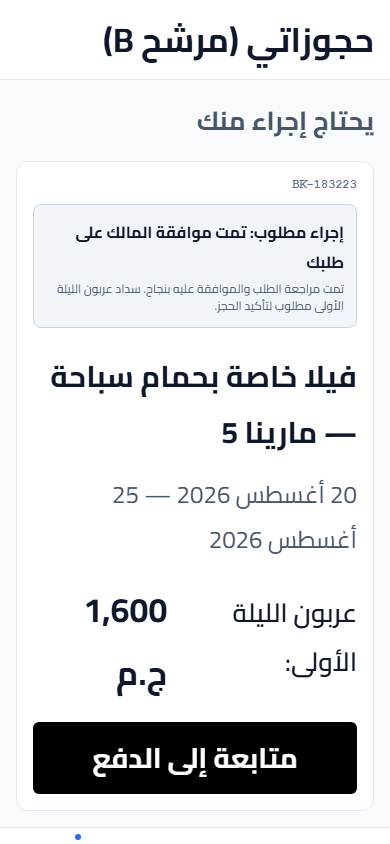
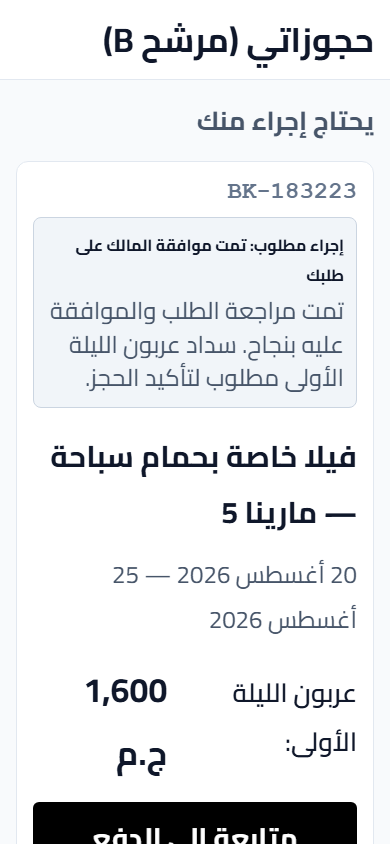
fix(design): correct Phase 4G publication integrity

Changed region(s): [[0.0615, 0.2156, 0.9231, 1.0], [0.1231, 0.5237, 0.3692, 0.6161], [0.2154, 0.6469, 0.4308, 0.7393]]

diff --git a/DESIGN_SYSTEM/PILOTS/content-state-pilot-01/index.html b/DESIGN_SYSTEM/PILOTS/content-state-pilot-01/index.html
@@ -100,7 +100,6 @@
 
     body.scale-200 .table-cell {
       padding: 8px 6px !important;
-      font-size: calc(11px * var(--scale-factor)) !important;
     }
 
     body.scale-200 .toast-box {
@@ -1033,7 +1032,7 @@
             <div style="flex:1;">
               <strong>تعذر تحديث النتائج.</strong> قد تكون الأسعار والتوافر قد تغيرت. يتم عرض آخر بيانات محفوظة.
             </div>
-            <button class="btn-secondary" style="min-height:32px; padding:4px 10px; font-size:12px;">تحديث</button>
+            <button class="btn-secondary" style="min-height:32px; padding:4px 10px; font-size:calc(12px * var(--scale-factor));">تحديث</button>
           </div>
 
           <!-- Safe Last-Known Cached Card -->
@@ -1148,7 +1147,7 @@
           <div class="struct-card">
             <div style="display:flex; justify-content:space-between; align-items:center;">
               <span class="status-badge neutral-process">بانتظار موافقة المالك</span>
-              <span style="font-size:12px; font-weight:700; color:var(--text-muted); font-family:monospace;" dir="ltr">BK-908747</span>
+              <span style="font-size:calc(12px * var(--scale-factor)); font-weight:700; color:var(--text-muted); font-family:monospace;" dir="ltr">BK-908747</span>
             </div>
 
             <div style="font-size:calc(15px * var(--scale-factor)); font-weight:700;">شاليه فاخر بإطلالة مباشرة على اللاجون</div>
@@ -1206,11 +1205,11 @@
             </div>
             <div class="struct-card">
               <div style="display:flex; justify-content:space-between; align-items:center;">
-                <span style="font-size:12px; font-weight:700; color:var(--text-muted); font-family:monospace;" dir="ltr">BK-183223</span>
+                <span style="font-size:calc(12px * var(--scale-factor)); font-weight:700; color:var(--text-muted); font-family:monospace;" dir="ltr">BK-183223</span>
               </div>
               <div class="candidate-box-banner">
                 <strong style="color:#0F172A; display:block; margin-bottom:4px;">إجراء مطلوب: تمت موافقة المالك على طلبك</strong>
-                <p style="font-size:12px; color:#475569; line-height:1.4;">
+                <p style="font-size:calc(12px * var(--scale-factor)); color:#475569; line-height:1.4;">
                   تمت مراجعة الطلب والموافقة عليه بنجاح. سداد عربون الليلة الأولى مطلوب لتأكيد الحجز.
                 </p>
               </div>
@@ -1242,7 +1241,7 @@
           <div class="struct-card" style="border-color:#0F172A; border-width:1.5px;">
             <div style="display:flex; justify-content:space-between; align-items:center; flex-wrap:wrap; gap:6px;">
               <span class="status-badge action-required">تمت الموافقة — سداد العربون مطلوب</span>
-              <span style="font-size:12px; font-weight:700; color:var(--text-muted); font-family:monospace;" dir="ltr">BK-183223</span>
+              <span style="font-size:calc(12px * var(--scale-factor)); font-weight:700; color:var(--text-muted); font-family:monospace;" dir="ltr">BK-183223</span>
             </div>
 
             <div style="font-size:calc(15px * var(--scale-factor)); font-weight:700;">فيلا خاصة بحمام سباحة — مارينا 5</div>
@@ -1276,7 +1275,7 @@
           <div class="struct-card">
             <div style="display:flex; justify-content:space-between; align-items:center;">
               <span class="status-badge success">حجز مؤكد</span>
-              <span style="font-size:12px; font-weight:700; color:var(--text-muted); font-family:monospace;" dir="ltr">BK-442190</span>
+              <span style="font-size:calc(12px * var(--scale-factor)); font-weight:700; color:var(--text-muted); font-family:monospace;" dir="ltr">BK-442190</span>
             </div>
 
             <div style="font-size:calc(15px * var(--scale-factor)); font-weight:700;">شقة مصيفية فاخرة — سيدي حنيش</div>
@@ -1284,7 +1283,7 @@
 
             <div style="display:flex; justify-content:space-between; align-items:center; border-top:1px solid var(--border-divider); padding-top:10px;">
               <span style="font-size:calc(12px * var(--scale-factor)); color:var(--status-success); font-weight:700;">تم سداد العربون وتثبيت الموعد</span>
-              <button class="btn-secondary" style="min-height:36px; padding:4px 12px; font-size:12px;">تفاصيل الإقامة</button>
+              <button class="btn-secondary" style="min-height:36px; padding:4px 12px; font-size:calc(12px * var(--scale-factor));">تفاصيل الإقامة</button>
             </div>
           </div>
         </div>
@@ -1452,7 +1451,7 @@
           <div class="struct-card">
             <div style="display:flex; justify-content:space-between; align-items:center;">
               <span class="status-badge action-required">طلب جديد</span>
-              <span style="font-size:12px; font-weight:700;" dir="ltr">BK-771902</span>
+              <span style="font-size:calc(12px * var(--scale-factor)); font-weight:700;" dir="ltr">BK-771902</span>
             </div>
             <div style="font-size:calc(14px * var(--scale-factor)); font-weight:700;">طلب حجز شاليه سيدي عبد الرحمن</div>
             <div class="action-row" style="display:flex; gap:8px; margin-top:4px;">
@@ -1470,7 +1469,7 @@
             <div style="font-size:calc(12px * var(--scale-factor)); color:var(--text-secondary);">
               لم نتمكن من جلب الأرصدة المالية المؤكدة من الخادم. لم تُعرض أي أرقام بديلة.
             </div>
-            <button class="btn-secondary" style="min-height:36px; padding:4px 12px; font-size:12px; width:fit-content;">
+            <button class="btn-secondary" style="min-height:36px; padding:4px 12px; font-size:calc(12px * var(--scale-factor)); width:fit-content;">
               إعادة محاولة جلب المحفظة
             </button>
           </div>
@@ -1487,7 +1486,7 @@
           <div class="struct-card">
             <div style="display:flex; justify-content:space-between; align-items:center;">
               <span class="status-badge action-required">يحتاج قرارك</span>
-              <span style="font-size:12px; font-weight:700; color:var(--text-muted);" dir="ltr">BK-882310</span>
+              <span style="font-size:calc(12px * var(--scale-factor)); font-weight:700; color:var(--text-muted);" dir="ltr">BK-882310</span>
             </div>
 
             <div style="font-size:calc(15px * var(--scale-factor)); font-weight:700;">أحمد محمد — 4 ضيوف</div>
@@ -1555,7 +1554,7 @@
             <div style="display:flex; justify-content:space-between; align-items:center;">
               <!-- Normal process: NOT warning/amber -->
               <span class="status-badge neutral-process">قيد المراجعة</span>
-              <span style="font-size:12px; color:var(--text-muted);">مقدمة منذ يومين</span>
+              <span style="font-size:calc(12px * var(--scale-factor)); color:var(--text-muted);">مقدمة منذ يومين</span>
             </div>
 
             <div style="font-size:calc(15px * var(--scale-factor)); font-weight:700;">شاليه فاخر قرية مراسي</div>
@@ -1739,7 +1738,7 @@
                 <td class="table-cell">محمود السيد</td>
                 <td class="table-cell">04 أكتوبر 2026</td>
                 <td class="table-cell"><span class="status-badge neutral-process">قيد المراجعة</span></td>
-                <td class="table-cell"><button class="btn-primary" style="min-height:32px; padding:4px 10px; font-size:12px;">فتح للمعاينة والقرار</button></td>
+                <td class="table-cell"><button class="btn-primary" style="min-height:32px; padding:4px 10px; font-size:calc(12px * var(--scale-factor));">فتح للمعاينة والقرار</button></td>
               </tr>
               <tr>
                 <td class="table-cell" style="font-family:monospace;" dir="ltr">PR-331084</td>
@@ -1747,7 +1746,7 @@
                 <td class="table-cell">سارة عادل</td>
                 <td class="table-cell">05 أكتوبر 2026</td>
                 <td class="table-cell"><span class="status-badge neutral-process">قيد المراجعة</span></td>
-                <td class="table-cell"><button class="btn-primary" style="min-height:32px; padding:4px 10px; font-size:12px;">فتح للمعاينة والقرار</button></td>
+                <td class="table-cell"><button class="btn-primary" style="min-height:32px; padding:4px 10px; font-size:calc(12px * var(--scale-factor));">فتح للمعاينة والقرار</button></td>
               </tr>
             </tbody>
           </table>

diff --git a/DESIGN_SYSTEM/PILOTS/content-state-pilot-01/EVIDENCE_MANIFEST.md b/DESIGN_SYSTEM/PILOTS/content-state-pilot-01/EVIDENCE_MANIFEST.md
@@ -24,14 +24,14 @@
 | **Unauthorized Evidence** | `customer_bookings_guest_390.png` | 16,801 | `58d61a3352157e1c522a831b0a27520f45619ea9` | Clean guest state with login redirection |
 | | `customer_bookings_session_expired_390.png` | 16,583 | `2b13f394f2170fe64c11fbe51685a99ec62f3b7d` | Session expired notice (neutral/blue card; no amber box; renamed from expired) |
 | | `admin_session_expired_1440.png` | 20,800 | `1e90aaf24a051ea21daf277ae47c909e16c67d6e` | Admin session gate; fails closed |
-| **Customer Lifecycle** | `customer_explore_loading_390.png` | 12,978 | `474c34e68aa960f994bdce6be20c45ffbb984dbb` | Structure-preserving 1.4:1 skeleton feed |
+| **Customer Lifecycle** | `customer_explore_loading_390.png` | 12,476 | `dd328b6bf6aae23c60c15c741ff462ae9055fdac` | Structure-preserving 1.4:1 skeleton feed |
 | | `customer_favorites_empty_390.png` | 16,172 | `ddc069274c8c53c1362865c08b916449b3133b52` | True empty favorites with explore redirection |
 | | `customer_bookings_pending_390.png`| 19,838 | `cfec8b632b90eed5ec21a376c9183f6816e5790c` | Normal process: PENDING_OWNER_APPROVAL (soft neutral/blue; zero response SLA) |
 | | `customer_bookings_approved_390.png`| 21,286 | `f5ee005847b83f366f327ebc76013bfa09f643a3` | Action required: APPROVED_PENDING_PAYMENT with deposit CTA (zero deadline) |
 | | `customer_bookings_confirmed_390.png`| 18,290 | `24ebcd577e4be56cdfce280ce335cc0e6840e590` | Stable confirmed booking state |
 | | `customer_booking_submitting_390.png`| 13,531 | `2877fb10b4114479b801803fbd35024153146335` | Submitting in-flight; duplicate submission prevented |
 | | `customer_booking_success_390.png` | 18,652 | `77e0c9dc97238b5445f112eea9fc6f679b7b1ac6` | Screen 11 request sent confirmation with reference ID |
-| **Owner Operations** | `owner_home_loading_390.png` | 8,747 | `6da6afff62f5250df9cd8341e36daf5e03c5dc9d` | Dashboard structure skeleton |
+| **Owner Operations** | `owner_home_loading_390.png` | 8,750 | `ff1077bc822fdbaffe5057e7ed5c1ac76c5d0ad7` | Dashboard structure skeleton |
 | | `owner_bookings_queue_390.png` | 17,433 | `55e2dd2935b55df736d062fdc9acc1d4081ee558` | Queue decision item with Approve / Reject CTAs |
 | | `owner_bookings_submitting_390.png` | 10,311 | `beeb0b435e45fa199710c3e705688dd57f8ac6ed` | Submitting decision with disabled control |
 | | `owner_properties_empty_390.png` | 16,760 | `4dae399d78ee5b433f0508ad6ba9a400e9021ae5` | First-run empty properties with add unit CTA |
@@ -45,26 +45,47 @@
 | **Candidate Comparators (100% Scale)** | `candidate_a_customer_bookings_390.png` | 25,034 | `0a88faf457eaa4653a8329eb0420e629b871b303` | Candidate A: Badge-centric chip soup (same truthful data, no invented deadline) |
 | | `candidate_b_customer_bookings_390.png` | 26,064 | `d6c6b8bebb0745a89bd4ee73851e7b724421ad55` | Candidate B: Message-centric boxed alert (neutral slate box, same truthful data) |
 | | `candidate_c_customer_bookings_390.png` | 21,286 | `f5ee005847b83f366f327ebc76013bfa09f643a3` | Candidate C: Role-aware layered system baseline |
-| **Candidate Comparators (True 200% Scale)** | `candidate_a_customer_bookings_200.png` | 42,443 | `6ab3ffa82f32328c7e0b6281dd77f3663c562018` | Candidate A @ 200%: Badges wrap into 3 vertical rows |
-| | `candidate_b_customer_bookings_200.png` | 39,080 | `e263062504783767fda6909245a331cc5d65af01` | Candidate B @ 200%: Heavy box expands vertically |
-| | `candidate_c_customer_bookings_200.png` | 37,694 | `a9bacad6fd46d4f3b9efcce3c29b0c4ab42c7e9c` | Candidate C @ 200%: Clean 2-line badge reflow, subtext and CTA fully visible |
+| **Candidate Comparators (200% Controlled Scale)** | `candidate_a_customer_bookings_200.png` | 42,443 | `6ab3ffa82f32328c7e0b6281dd77f3663c562018` | Candidate A @ 200%: Badges wrap into 3 vertical rows |
+| | `candidate_b_customer_bookings_200.png` | 43,984 | `76669ddba0886ccafcd33d451f8e87954cc11db1` | Candidate B @ 200%: Scaled text banner causes vertical bloat |
+| | `candidate_c_customer_bookings_200.png` | 38,046 | `64c21d25c1e254d2c49eb9ec3190323a3576fe8a` | Candidate C @ 200%: Scaled badge, subtext, ID, and CTA fully visible |
 | **Stress & Accessibility** | `stress_true_200_customer_error_390.png` | 28,995 | `52bffcc92792f7760ebeeb41204e37d2d112abad` | 200% scale reflow of customer error view |
 | | `stress_true_200_customer_conflict_390.png` | 39,963 | `1c07c9616a2b91a7ba3cb573c345eb86de031cb3` | 200% scale reflow of price conflict alert |
 | | `stress_true_200_owner_wallet_390.png` | 39,186 | `80e764b3445398d7d1e4664e04f3bca6386c8193` | 200% scale reflow of owner wallet balances |
-| | `stress_true_200_admin_queue_1440.png` | 41,160 | `a695d1ba94d673d0d08e5792e1252930efbe3053` | 200% scale reflow of admin data table |
-| **Responsive Sets** | `customer_explore_360.png` | 11,771 | `0fbf9cd5b23d0a0f1cdf5a8adbd8d635644c061b` | Compact mobile explore view (360px) |
-| | `customer_explore_390.png` | 12,978 | `474c34e68aa960f994bdce6be20c45ffbb984dbb` | Standard mobile explore view (390px) |
-| | `customer_explore_430.png` | 13,608 | `bb55e1b3bd2a41867cf73a9de064396cf48eed1f` | Large mobile explore view (430px) |
+| | `stress_true_200_admin_queue_1440.png` | 45,121 | `321658a10a54008400a6b0511be3364ea345cdde` | 200% scale reflow of admin data table with 26px cells & 24px buttons |
+| **Responsive Sets** | `customer_explore_360.png` | 12,421 | `1e38d85f94aa05be0a65fa84fd06e4b321c6ccc7` | Compact mobile explore view (360px) |
+| | `customer_explore_390.png` | 12,382 | `f705c9660a8891e89541e220658f661b03877346` | Standard mobile explore view (390px) |
+| | `customer_explore_430.png` | 13,609 | `2cb0e640627b3b835a35a7c9249eae38223e9ff8` | Large mobile explore view (430px) |
 | | `owner_home_360.png` | 17,830 | `3606c9669f8eff74b5b88749c64ac119462158f5` | Compact mobile owner home (360px) |
 | | `owner_home_390.png` | 18,145 | `38a6e893b2d9e35d6729378b1017b6ee0674cd9c` | Standard mobile owner home (390px) |
 | | `owner_home_430.png` | 18,425 | `06ff14b5bae8d1698151697371dbb9241b9c483d` | Large mobile owner home (430px) |
 
 ---
 
-## 2. Evidence Verification Summary
+## 2. Evidence Verification Summary & Definitions
 
-1. **Non-Zero Size Guarantee:** All 46 files exist on disk with verified sizes between 8,747 bytes and 42,443 bytes.
-2. **Distinct Comparison Candidates:** `candidate_a` (25,034 B), `candidate_b` (26,064 B), and `candidate_c` (21,286 B) at 100% scale, and `candidate_a_200` (42,443 B), `candidate_b_200` (39,080 B), and `candidate_c_200` (37,694 B) at 200% scale have distinct geometries, byte sizes, and git blob SHAs reflecting their architectural differences.
-3. **Geometric Integrity:** Every mobile screenshot conforms to its target aspect ratio (360×800, 390×844, 430×932) with zero right-edge clipping or horizontal overflow.
-4. **Admin Dual Desktop Viewports:** Admin queue verified at both 1280px (28,227 B) and 1440px (28,925 B).
-5. **No Amber Box Containers:** Verified in rendered pixels: zero amber fills or borders used for stale data or normal process states.
+1. **Controlled Web 200% Text Scale Definition:**
+   - **`TRUE IN THIS CONTEXT`** = All user-visible Web pilot typography participating in the 2.0 controlled typography scale via `calc(BASE_PX * var(--scale-factor))` with zero fixed font-size bypasses.
+   - **`NOT NATIVE OS ACCESSIBILITY ACCEPTANCE`**: This evidence validates the Web pilot layout and reflow behavior. Native mobile accessibility (iOS Dynamic Type, Android font scale, Flutter semantics, VoiceOver/TalkBack, and screen reader announcements) is strictly **`DEFERRED_TO_4I`**.
+
+2. **Programmatic Computed Font Size Verification:**
+   Every representative visible textual element was inspected in headless Chrome across normal (1.0x) and scale-200 (2.0x) modes:
+
+| Scenario | Element / Role | Selector | Computed 100% | Computed 200% | Ratio | Verification Status |
+| :--- | :--- | :--- | :--- | :--- | :--- | :--- |
+| **Customer Bookings (Cand. C)** | Customer main text (title) | `.struct-card > div:nth-child(2)` | `15px` | `30px` | `2.00x` | `PASS` |
+| **Customer Bookings (Cand. C)** | Customer supporting text | `.struct-card > div:nth-child(3)` | `12px` | `24px` | `2.00x` | `PASS` |
+| **Customer Bookings (Cand. C)** | Customer button label | `.card-action-bar button` | `14px` | `28px` | `2.00x` | `PASS` |
+| **Customer Bookings (Cand. C)** | Customer reference ID | `.struct-card span[dir="ltr"]` | `12px` | `24px` | `2.00x` | `PASS` |
+| **Customer Bookings (Cand. B)** | Candidate B explanatory text | `.candidate-box-banner p` | `12px` | `24px` | `2.00x` | `PASS` |
+| **Owner Home Partial** | Owner supporting text | `.struct-card:nth-child(2) > div:nth-child(2)` | `12px` | `24px` | `2.00x` | `PASS` |
+| **Owner Home Partial** | Owner button label (retry) | `.struct-card:nth-child(2) button` | `12px` | `24px` | `2.00x` | `PASS` |
+| **Admin Queue Loaded** | Admin table cell text | `.table-cell strong` | `13px` | `26px` | `2.00x` | `PASS` |
+| **Admin Queue Loaded** | Admin action button | `.table-cell button` | `12px` | `24px` | `2.00x` | `PASS` |
+
+   **Result:** 9/9 representative visible text elements scale at exactly `2.00x`. Zero fixed font-size bypasses detected in product surfaces.
+
+3. **Geometric & Visual QA Invariants:**
+   - **Zero Horizontal Clipping:** No horizontal scroll, broken cards, or clipped CTAs across viewports (360px, 390px, 430px, 1280px, 1440px).
+   - **Vertical Expansion:** Cards and containers expand vertically to accommodate scaled Arabic typography.
+   - **Bidi Integrity:** Bidirectional isolation verified: technical IDs (`BK-183223`), phone numbers, and currency values remain correctly ordered.
+   - **No Amber Box Containers:** Verified in rendered pixels: zero amber fills or borders used for stale data or normal process states.

diff --git a/DESIGN_SYSTEM/PILOTS/content-state-pilot-01/STATUS_TRUTH_MATRIX.md b/DESIGN_SYSTEM/PILOTS/content-state-pilot-01/STATUS_TRUTH_MATRIX.md
@@ -20,28 +20,41 @@
 
 ## 2. Comprehensive Status Presentation Matrix
 
-### 2.1 Property Lifecycle Statuses
+### 2.1 Property Statuses
+
+#### 2.1A Property Lifecycle Statuses (`properties.status` [SERVER_ENUM])
 
 | Canonical Enum | Customer Presentation | Owner Presentation | Admin Presentation | Visual Alarm Level | Preferred Component | Invariant / Boundary |
 | :--- | :--- | :--- | :--- | :--- | :--- | :--- |
 | **`DRAFT`** | *Hidden (Never exposed)* | **مسودة**<br>*"أكمل بيانات الوحدة لإرسالها للمراجعة"* | **مسودة**<br>*"غير مقدمة للمراجعة"* | `MUTED` | Subtle Neutral Badge | Invisible to renters until published and verified. |
-| **`PENDING_REVIEW`** | *Hidden (Never exposed)* | **قيد المراجعة**<br>*"الوحدة قيد تدقيق فريق كونفرم"* | **بانتظار المراجعة**<br>*"تتطلب قرار اعتماد أو رفض"* | `NEUTRAL_PROCESS` (Soft Blue / Neutral) | Info Badge (No amber box) | In Admin review queue. Owner cannot directly publish, reject, or self-resubmit. |
+| **`PENDING_REVIEW`** | *Hidden (Never exposed)* | **قيد المراجعة**<br>*"الوحدة قيد تدقيق فريق كونفرم"* | **بانتظار المراجعة**<br>*"تتطلب قرار اعتماد أو رفض"* | `NEUTRAL_PROCESS` (Soft Blue / Neutral) | Info Badge (No amber box) | In Admin review queue. Owner cannot directly publish, pause, or self-resubmit. |
 | **`PUBLISHED`** | **متاحة للحجز**<br>*(Shown implicitly via card presence)* | **منشورة ومتاحة**<br>*"تظهر للضيوف ويمكن استقبال طلبات عليها"* | **معتمدة ومنشورة**<br>*"متاحة في نتائج البحث العامة"* | `SUCCESS` | Muted Success Badge | Verified + Published required for public listing visibility. |
-| **`REJECTED`** | *Hidden (Never exposed)* | **بحاجة إلى تعديل**<br>*"راجع ملاحظات المراجعة وعدّل الوحدة"* | **مرفوضة**<br>*"تم الرفض مع تدوين السبب"* | `DANGER` (Destructive/Rose) | Danger Badge + Inline Reason | Accompanied by plain Arabic rejection feedback. |
 | **`PAUSED`** | *Hidden from active search* | **موقوفة مؤقتاً**<br>*"الوحدة مخفية عن العرض العام"* | **موقوفة**<br>*"موقوفة من جانب المالك أو الإدارة"* | `MUTED` | Neutral Outline Badge | **SUPPORTED TRUTH:** Unit is paused/hidden from public listing. Booking request consequences remain governed by Product/availability authority. |
+| **`ARCHIVED`** | *Hidden (Never exposed)* | **مؤرشفة**<br>*"الوحدة في الأرشيف"* | **مؤرشفة**<br>*"وحدة خارج التداول"* | `MUTED` | Neutral Badge | Fully archived; excluded from active operations. |
+
+#### 2.1B Property Verification Statuses (`properties.verification_status` [VERIFICATION_STATE / SERVER_ENUM])
+
+| Canonical Enum | Customer Presentation | Owner Presentation | Admin Presentation | Visual Alarm Level | Preferred Component | Invariant / Boundary |
+| :--- | :--- | :--- | :--- | :--- | :--- | :--- |
+| **`UNVERIFIED`** | *Hidden* | **غير موثقة**<br>*"تتطلب إرفاق مستندات الملكية"* | **غير موثقة** | `MUTED` | Neutral Badge | Default initial state. |
+| **`PENDING_VERIFICATION`** | *Hidden* | **المستندات قيد الفحص**<br>*"يجري فحص مستندات الملكية"* | **فحص مستندات الملكية معلق** | `NEUTRAL_PROCESS` | Info Badge | In Admin verification queue. |
+| **`VERIFIED`** | *Implicit in listing* | **موثقة**<br>*"تم تدقيق مستندات الملكية"* | **مستندات معتمدة** | `SUCCESS` | Muted Success Badge | Authorizes publication. |
+| **`REJECTED`** | *Hidden* | **بحاجة إلى تعديل**<br>*"راجع ملاحظات المراجعة وعدّل المستندات"* | **مرفوضة**<br>*"تم رفض المستندات مع تدوين السبب"* | `DANGER` | Danger Badge + Reason | **VERIFICATION TRUTH:** Sets `verification_status = 'REJECTED'` and lifecycle returns to `DRAFT`. `REJECTED` is not a `properties.status` enum. |
 
 ---
 
-### 2.2 Booking Lifecycle Statuses
+### 2.2 Booking Lifecycle Statuses (`bookings.status` [SERVER_ENUM])
 
 | Canonical Enum | Customer Presentation | Owner Presentation | Admin Presentation | Visual Alarm Level | Preferred Component | Invariant / Boundary |
 | :--- | :--- | :--- | :--- | :--- | :--- | :--- |
 | **`PENDING_OWNER_APPROVAL`** | **طلبك وصل للمالك**<br>*"بانتظار مراجعة وقرار المالك"* | **طلب حجز جديد**<br>*"يحتاج قرارك (قبول أو رفض)"* | **بانتظار موافقة المالك**<br>*"طلب معلق لدى المالك"* | `NEUTRAL_PROCESS` (Soft Blue / Neutral) | Info Badge / Inline Text | **REQUEST-BASED CANON:** Does NOT block dates. No payment collected. No Owner response SLA exists or is stated. Never an alarm or failure. |
 | **`APPROVED_PENDING_PAYMENT`** | **تمت الموافقة — سداد العربون مطلوب**<br>*"سدّد العربون لتأكيد الحجز."* | **تمت الموافقة من جانبك**<br>*"بانتظار سداد الضيف للعربون لتأكيد الحجز"* | **موافقة معلقة بالسداد**<br>*"بانتظار إتمام الدفع"* | `ACTION_REQUIRED` (Restrained Accent / Slate) | High-Contrast Badge + Action CTA | **BLOCKS DATES:** Deposit payment is the next governed step. Bottom nav attention dot active. **NO INVENTED PAYMENT DEADLINE.** |
 | **`CONFIRMED`** | **حجز مؤكد**<br>*"تم سداد العربون وتأكيد الإقامة بنجاح"* | **حجز مؤكد**<br>*"تم سداد العربون وتثبيت الموعد بالتقويم"* | **حجز مؤكد**<br>*"عربون مسدد والعملية مكتملة"* | `SUCCESS` | Muted Green Badge | **BLOCKS DATES:** Deposit finalized. Full booking confirmation established. |
-| **`REJECTED`** | **لم يتم قبول الطلب**<br>*"اعتذر المالك عن قبول هذا الطلب"* | **تم رفض الطلب**<br>*"تم رفض الطلب من جانبك"* | **مرفوض من المالك**<br>*"تم الرفض بواسطة المالك"* | `MUTED_DANGER` | Neutral/Destructive Badge | Strictly distinct from Guest Cancellation. |
-| **`CANCELLED`** | **تم الإلغاء**<br>*"ملغي من جانبك"* (or *"بسبب المالك"*) | **طلب ملغي**<br>*"أُلغي من قبل الضيف أو النظام"* | **ملغي**<br>*"مسجل كملغي مع بيان الطرف"* | `MUTED` | Neutral Gray Badge | **NEVER label cancellation as "مرفوض"**. Identifies causal party truthfully. |
+| **`REJECTED`** | **لم يتم قبول الطلب**<br>*"اعتذر المالك عن قبول هذا الطلب"* | **تم رفض الطلب**<br>*"تم رفض الطلب من جانبك"* | **مرفوض من المالك**<br>*"تم الرفض بواسطة المالك"* | `MUTED_DANGER` | Neutral/Destructive Badge | Strictly distinct from cancellation. Pre-payment decline. |
 | **`EXPIRED`** | **انتهت صلاحية الطلب** | **انتهت صلاحية الطلب** | **طلب منتهي الصلاحية** | `MUTED` | Neutral Gray Badge | **CAUSE-NEUTRAL TRUTH:** Request is no longer active. Expiry cause is not universally inferred (no assumed Owner delay or payment SLA). Dates are non-blocked. |
+| **`CANCELLED_BY_OWNER`** | **ألغى المالك الحجز**<br>*"تم إلغاء الحجز من جانب المالك"* | **تم الإلغاء من جانبك**<br>*"ألغيت هذا الحجز"* | **ملغى بواسطة المالك** | `MUTED` | Neutral Gray Badge | Causal actor explicit. Distinguishable from guest cancellation. |
+| **`CANCELLED_BY_GUEST`** | **تم الإلغاء من جانبك**<br>*"ألغيت طلب الحجز"* | **ألغى الضيف الحجز**<br>*"تم الإلغاء من جانب الضيف"* | **ملغى بواسطة الضيف** | `MUTED` | Neutral Gray Badge | Causal actor explicit. Distinguishable from owner cancellation. |
+| **`COMPLETED`** | **اكتملت الإقامة**<br>*"انتهت فترة الإقامة بنجاح"* | **إقامة مكتملة**<br>*"اكتملت الإقامة ومستحقاتها المالية"* | **إقامة مكتملة وموثقة** | `SUCCESS` | Muted Success Badge | Represents completed stay truth. |
 
 ---
 
@@ -110,3 +123,4 @@ These are two structurally distinct domain concepts: (A) balance buckets on the 
 | **Platform Commission (20%)** | **HIDDEN** | **VISIBLE** (in breakdown) | **VISIBLE** | **CUSTOMER LEAKAGE PROHIBITED:** Customer never sees platform split. Applies only to first-night deposit. |
 | **Owner Net Entitlement (80%)** | **HIDDEN** | **VISIBLE** | **VISIBLE** | Owner sees exact net credit from deposit. |
 | **Wallet Ledgers / Payout Fees** | **HIDDEN** | **VISIBLE** | **VISIBLE** | Payout provider fee is Owner-borne. Minimum payout is 500 EGP. |
+| **Taxes / VAT / E-Invoicing** | **HIDDEN** | **HIDDEN** | **OPEN / NOT YET GOVERNED** | **TAX_VAT_E_INVOICING_MODEL: OPEN / NOT YET GOVERNED.** Canonical financial schema does not contain general tax contracts. System must not fabricate tax amounts or invent VAT calculations. |

diff --git a/DESIGN_SYSTEM/COMPONENTS/badges.md b/DESIGN_SYSTEM/COMPONENTS/badges.md
@@ -4,27 +4,39 @@ A `StatusBadge` is a semantic presentation of a canonical status, not an indepen
 
 A status badge **identifies** canonical state; it does **not** substitute for required explanatory copy or recovery actions (`STATE_EXPLANATION_AND_RECOVERY_CONTRACT`).
 
-| Domain | Status → Arabic label guidance | Semantic category |
-|---|---|---|
-| Property | DRAFT → مسودة; PENDING_REVIEW → قيد المراجعة; PUBLISHED → منشورة; REJECTED → مرفوضة; PAUSED → موقوفة | neutral_process, neutral_process, success, danger, neutral_muted |
-| Booking | PENDING_OWNER_APPROVAL → بانتظار موافقة المالك; APPROVED_PENDING_PAYMENT → تمت الموافقة — العربون مطلوب; CONFIRMED → الحجز مؤكد; REJECTED → مرفوض; CANCELLED → ملغى; EXPIRED → انتهت صلاحية الطلب | neutral_process, informational_process, success, danger, neutral_muted, neutral_muted |
-| Payment | INITIATED → بدأ الدفع; PENDING → قيد المعالجة; SUCCEEDED → تم الدفع; FAILED → فشل الدفع | informational_process, neutral_process, success, danger |
-| Wallet Balance Buckets (`owner_wallets`) | AVAILABLE → متاح للسحب; PENDING → معلق (يتاح بعد 24 ساعة من تسجيل الوصول); HELD → محتجز; RESERVED_FOR_PAYOUT → محجوز لطلب سحب | success, neutral_process, neutral_attention, informational_process |
-| Payout Request Lifecycle (`payout_requests`) | PENDING_ADMIN_PROCESSING (PENDING) → قيد المراجعة; PROCESSING → قيد التحويل; COMPLETED → تم التحويل; FAILED → فشل التحويل; REJECTED → مرفوض; CANCELLED_BY_OWNER (CANCELLED) → ملغى من المالك | neutral_process, informational_process, success, danger, danger, neutral_muted |
-| Identity & Owner KYC | UNVERIFIED → غير موثق; PENDING_VERIFICATION → قيد المراجعة; VERIFIED → موثق; REJECTED → مرفوض | neutral_muted, neutral_process, success, danger |
+## Canonical Domain Status Mapping
 
-Applications map internal enum values centrally and never expose them as user-facing English text. Exact wording may be refined centrally without changing business status semantics.
+| Domain Family | Canonical Source & Classification | Status → Arabic Label Guidance | Semantic Category |
+|---|---|---|---|
+| **Property Lifecycle** | `properties.status`<br>`[SERVER_ENUM]` | `DRAFT` → مسودة<br>`PENDING_REVIEW` → قيد المراجعة<br>`PUBLISHED` → منشورة<br>`PAUSED` → موقوفة<br>`ARCHIVED` → مؤرشفة | `neutral_process`<br>`neutral_process`<br>`success`<br>`neutral_muted`<br>`neutral_muted` |
+| **Property Verification** | `properties.verification_status`<br>`[VERIFICATION_STATE / SERVER_ENUM]` | `UNVERIFIED` → غير موثق<br>`PENDING_VERIFICATION` → قيد الفحص<br>`VERIFIED` → موثق<br>`REJECTED` → مرفوض | `neutral_muted`<br>`neutral_process`<br>`success`<br>`danger` |
+| **Booking Lifecycle** | `bookings.status`<br>`[SERVER_ENUM]` | `PENDING_OWNER_APPROVAL` → بانتظار موافقة المالك<br>`APPROVED_PENDING_PAYMENT` → تمت الموافقة — العربون مطلوب<br>`CONFIRMED` → الحجز مؤكد<br>`REJECTED` → مرفوض من المالك<br>`EXPIRED` → انتهت صلاحية الطلب<br>`CANCELLED_BY_OWNER` → Customer: ألغى المالك الحجز / Owner: تم الإلغاء من جانبك / Admin: ملغى بواسطة المالك<br>`CANCELLED_BY_GUEST` → Customer: تم الإلغاء من جانبك / Owner: ألغى الضيف الحجز / Admin: ملغى بواسطة الضيف<br>`COMPLETED` → اكتملت الإقامة | `neutral_process`<br>`informational_process`<br>`success`<br>`danger`<br>`neutral_muted`<br>`neutral_muted`<br>`neutral_muted`<br>`success` |
+| **Payment Transactions** | `payment_transactions.status`<br>`[SERVER_ENUM]` | `INITIATED` → بدأ الدفع<br>`PENDING` → قيد المعالجة<br>`SUCCEEDED` → تم الدفع بنجاح<br>`FAILED` → فشل الدفع<br>`EXPIRED` → منتهية الصلاحية<br>`CANCELLED` → ملغاة<br>`REFUNDED` → مسترد بالكامل<br>`PARTIALLY_REFUNDED` → مسترد جزئياً<br>*(Adapter Alias: `NO_PAYMENT_INITIATED` [CLIENT_PRESENTATION_ALIAS] → لم يبدأ الدفع بعد)* | `informational_process`<br>`neutral_process`<br>`success`<br>`danger`<br>`neutral_muted`<br>`neutral_muted`<br>`informational_process`<br>`informational_process`<br>`neutral_muted` |
+| **Wallet Balance Buckets** | `owner_wallets` columns<br>`[BALANCE_BUCKET]` | `AVAILABLE` (`available_balance`) → متاح للسحب (الحد الأدنى 500 ج.م)<br>`PENDING` (`pending_balance`) → معلق (يتاح بعد 24 ساعة من تسجيل الوصول)<br>`HELD` (`held_balance`) → محتجز مؤقتاً<br>`RESERVED_FOR_PAYOUT` (`reserved_for_payout_balance`) → محجوز لطلب سحب | `success`<br>`neutral_process`<br>`neutral_attention`<br>`informational_process` |
+| **Payout Request Lifecycle** | `payout_requests.status`<br>`[SERVER_ENUM]` | `PENDING_ADMIN_PROCESSING` *(Legacy alias: `PENDING` [CLIENT_PRESENTATION_ALIAS])* → قيد المراجعة<br>`PROCESSING` → قيد التحويل<br>`COMPLETED` → تم التحويل بنجاح<br>`UNKNOWN` → Owner: قيد التحقق من حالة التحويل / Admin: حالة التحويل غير محسومة — تحتاج تحقق<br>`FAILED` → فشل التحويل<br>`REJECTED` → مرفوض<br>`CANCELLED_BY_OWNER` *(Legacy alias: `CANCELLED` [CLIENT_PRESENTATION_ALIAS])* → ملغى من المالك | `neutral_process`<br>`informational_process`<br>`success`<br>`neutral_process`<br>`danger`<br>`danger`<br>`neutral_muted` |
+| **Identity & Owner KYC** | `owner_profiles.verification_status` / `owner_verifications.status`<br>`[VERIFICATION_STATE / SERVER_ENUM]` | `UNVERIFIED` → غير موثق<br>`PENDING_VERIFICATION` → قيد المراجعة<br>`VERIFIED` → موثق<br>`REJECTED` → تعذر التوثيق | `neutral_muted`<br>`neutral_process`<br>`success`<br>`danger` |
 
-## Normal process statuses are not warnings
+Applications map internal enum values centrally and never expose them as raw technical strings. Exact role-aware Arabic wording may be refined centrally without changing business status semantics.
 
-Ordinary operational milestones (`PENDING_OWNER_APPROVAL`, `PENDING_REVIEW`, `Wallet PENDING`, `PENDING_VERIFICATION`) represent healthy in-flight progress and **must NOT** map to warning/amber styling. They map to `neutral_process` or `informational_process`.
+## Architectural & Semantic Rules
+
+### 1. Property Rejection is Verification Truth, Not Lifecycle Enum
+`properties.status` has no `REJECTED` value (`DRAFT`, `PENDING_REVIEW`, `PUBLISHED`, `PAUSED`, `ARCHIVED`). Under canonical Admin review behavior, property rejection returns the lifecycle status to `DRAFT` and sets `properties.verification_status = 'REJECTED'`. UI may display an operational badge such as "مرفوضة" or "بحاجة إلى تعديل", but documentation and code must never treat `REJECTED` as a `properties.status` enum.
+
+### 2. Booking Cancellation Causal Discipline
+The canonical `bookings.status` model preserves explicit actor causality: `CANCELLED_BY_OWNER` is strictly distinct from `CANCELLED_BY_GUEST`, and both are distinct from `REJECTED` (Owner decline prior to payment) and `EXPIRED` (passive timeout). Presentation must never collapse these into a generic `CANCELLED`. `COMPLETED` represents verified stay completion truth.
+
+### 3. Payout UNKNOWN Handling
+The canonical `payout_requests.status` includes `UNKNOWN` for indeterminate provider/network states requiring reconciliation. It must be presented as `neutral_process` / `informational_process` ("قيد التحقق من حالة التحويل" for Owner; "حالة التحويل غير محسومة — تحتاج تحقق" for Admin). It must **NEVER** be presented as `COMPLETED`, `FAILED`, `REJECTED`, or `AVAILABLE`, and financial funds must remain reserved until authoritative reconciliation is finalized.
+
+### 4. Normal Process Statuses are Not Warnings
+Ordinary operational milestones (`PENDING_OWNER_APPROVAL`, `PENDING_REVIEW`, `Wallet PENDING`, `PENDING_VERIFICATION`, `Payout UNKNOWN`) represent healthy in-flight progress and **must NOT** map to warning/amber styling. They map to `neutral_process` or `informational_process`.
 
 Warning/attention semantics are reserved for genuine caution, consequential risk, or action requiring elevated attention when supported by canonical context.
 
 Exact semantic tokens and hex colors remain **OPEN / token-gated**.
 
-## Status badge is not a marketing trust badge
-
+### 5. Status Badge is Not a Marketing Trust Badge
 This contract maps canonical status to human presentation. It does **not** authorize customer-facing claims such as “إقامة موثقة من كونفرم”, “مضمونة” or similar marketing trust language.
 
 Specifically:

diff --git a/DESIGN_SYSTEM/EXPERIENCE/CONTENT_AND_MICROCOPY.md b/DESIGN_SYSTEM/EXPERIENCE/CONTENT_AND_MICROCOPY.md
@@ -34,4 +34,4 @@ KONFRM is Arabic-first, using natural Egyptian and Modern Standard Arabic suitab
 | **Tone** | Warm, respectful, clear, reassuring | Professional, direct, action-focused | Neutral, concise, audit-focused |
 | **Error Example** | *"تعذر إتمام العملية. تحقق من اتصالك وحاول مرة أخرى."* | *"تعذر تسجيل القرار على الطلب. يرجى إعادة المحاولة."* | *"فشل تحديث سجل المراجعة (خطوة غير مكتملة). تحقق من الصلاحيات وأعد المحاولة."* |
 | **Empty Example** | *"قائمة المفضلة فارغة. استكشف الإقامات واحفظ ما يعجبك."* | *"لا توجد طلبات جديدة تحتاج قرارك اليوم."* | *"قائمة مراجعة الوحدات مكتملة بالكامل."* |
-| **Financial Boundaries** | Sees total, deposit, and remaining balance. Never sees platform commissions or 80/20 splits. | Sees distinct Available and Pending balances with 24-hour check-in rule. | Full audit visibility into gross, fees, taxes, and net distributions. |
+| **Financial Boundaries** | Sees total, deposit, and remaining balance. Never sees platform commissions or 80/20 splits. | Sees distinct Available and Pending balances with 24-hour check-in rule. | Full audit visibility into authorized canonical financial data: gross amounts, deposit/payment truth, platform commission where governed, Owner net, wallet/payout amounts, actual provider fees, and audit ledger state. `TAX_VAT_E_INVOICING_MODEL`: **OPEN / NOT YET GOVERNED** (no tax/VAT amounts asserted or required). |
